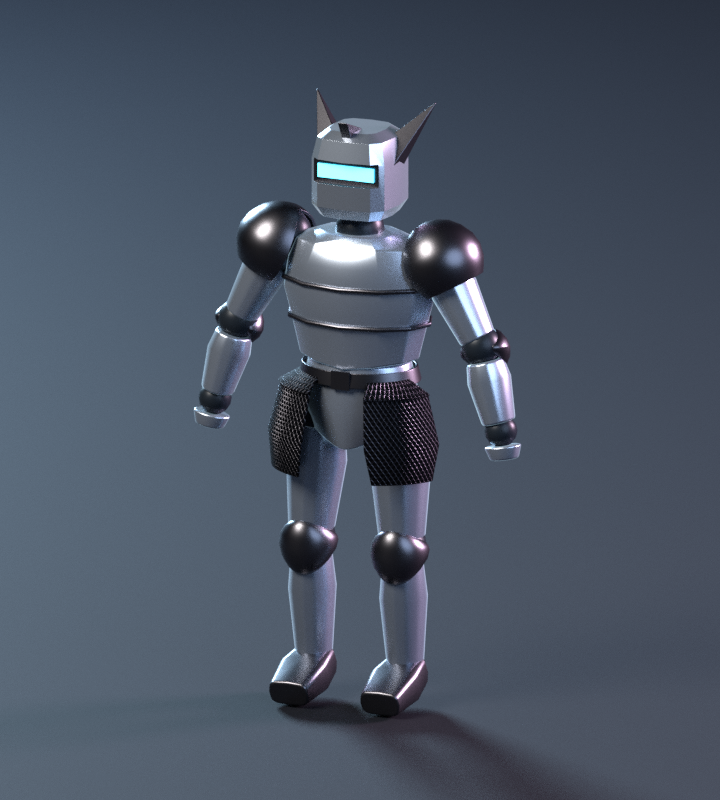
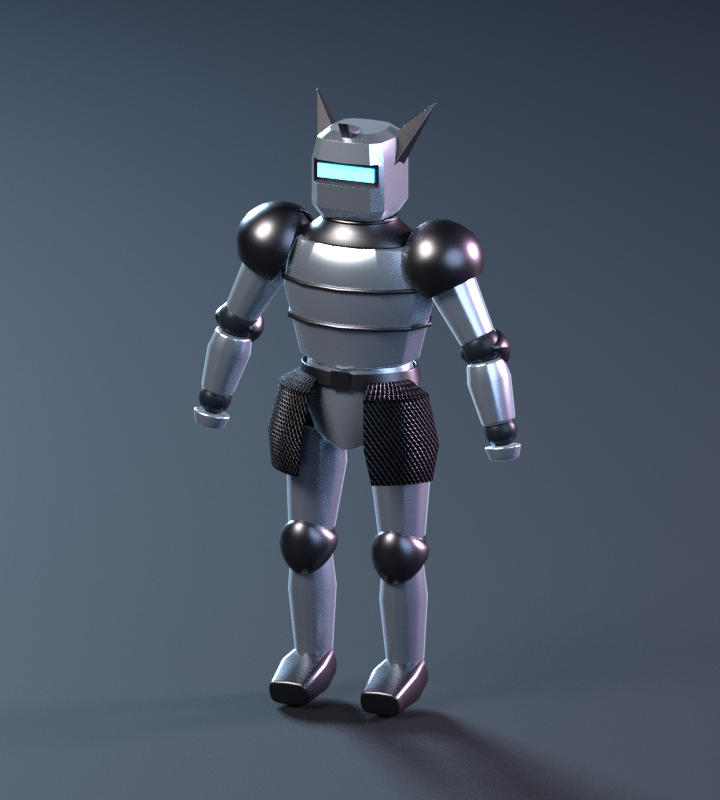
feat: add a dark iron gorget
Add a low dark iron cone on the breastplate's top that narrows to the
neck, with a rolled rim, attached to the chest. Its profile is scaled by
GORGET_SCALE (0.6) about the top ring so the curve keeps its shape. Share
round bars through ring_bar() and open bands through shell_ring().

Changed region(s): [[0.3972, 0.25, 0.5806, 0.3125]]

diff --git a/dev-samples/3d-stage1/rigged-armor/build.py b/dev-samples/3d-stage1/rigged-armor/build.py
@@ -334,6 +334,28 @@ CHEST_RINGS = [(-.085, .175, .13), (.04, .205, .145), (.12, .225, .16),
 CHEST_WIDEN = 1.1
 
 
+def ring_bar(rig, bone_name, name, points, radius, mat):
+    """Closed round bar through the given world points, rigid on a bone."""
+    curve = bpy.data.curves.new(name, 'CURVE')
+    curve.dimensions, curve.bevel_depth, curve.bevel_resolution = '3D', radius, 3
+    spline = curve.splines.new('POLY')
+    spline.points.add(len(points) - 1)
+    for point, co in zip(spline.points, points):
+        point.co = (*co, 1)
+    spline.use_cyclic_u = True
+    obj = bpy.data.objects.new(name, curve)
+    bpy.context.collection.objects.link(obj)
+    bpy.ops.object.select_all(action='DESELECT')
+    obj.select_set(True)
+    bpy.context.view_layer.objects.active = obj
+    bpy.ops.object.convert(target='MESH')
+    obj = bpy.context.object
+    for face in obj.data.polygons:
+        face.use_smooth = True
+    attach(obj, rig, bone_name, mat).modifiers['Forged edge'].width = .002
+    return obj
+
+
 def chest_seams(rig, mat, heights=(1.21, 1.33), radius=.008):
     """Dark iron seams girdling the breastplate like the heroic player's
     plate seams (../build-heroic.py): round bars that follow the plate's
@@ -345,27 +367,64 @@ def chest_seams(rig, mat, heights=(1.21, 1.33), radius=.008):
             if base + a0 <= z <= base + a1:
                 f = (z - base - a0) / (a1 - a0)
                 width, depth = (w0 + (w1 - w0) * f) * CHEST_WIDEN, d0 + (d1 - d0) * f
-        curve = bpy.data.curves.new(f'Chest seam {k + 1}', 'CURVE')
-        curve.dimensions, curve.bevel_depth, curve.bevel_resolution = '3D', radius, 3
-        spline = curve.splines.new('POLY')
-        spline.points.add(11)
-        for i, point in enumerate(spline.points):
+        points = []
+        for i in range(12):
             angle = i * 2 * math.pi / 12
             corner = Vector((width * math.sin(angle), -depth * math.cos(angle), 0))
             # Push the bar's center out a little so half of it shows.
             corner += corner.normalized() * radius * .5
-            point.co = (corner.x, corner.y, z, 1)
-        spline.use_cyclic_u = True
-        obj = bpy.data.objects.new(curve.name, curve)
-        bpy.context.collection.objects.link(obj)
-        bpy.ops.object.select_all(action='DESELECT')
-        obj.select_set(True)
-        bpy.context.view_layer.objects.active = obj
-        bpy.ops.object.convert(target='MESH')
-        obj = bpy.context.object
-        for face in obj.data.polygons:
-            face.use_smooth = True
-        attach(obj, rig, 'chest', mat).modifiers['Forged edge'].width = .002
+            points.append((corner.x, corner.y, z))
+        ring_bar(rig, 'chest', f'Chest seam {k + 1}', points, radius, mat)
+
+
+# Gorget rings (z, half-width, half-depth): a low dark iron cone that sits on
+# the breastplate's top and narrows up to the neck, ending just below the
+# helmet's lower edge. The profile is scaled by GORGET_SCALE about the top
+# ring, in height and in flare alike, so its curve keeps its shape.
+GORGET_SCALE = .6
+GORGET_RINGS = [(1.525 - (1.525 - z) * GORGET_SCALE, .115 + (w - .115) * GORGET_SCALE,
+                 .10 + (d - .10) * GORGET_SCALE)
+                for z, w, d in [(1.415, .235, .148), (1.45, .205, .135), (1.48, .16, .118),
+                                (1.505, .128, .106), (1.525, .115, .10)]]
+
+
+def shell_ring(rig, bone_name, name, rings, mat, thickness=.007, count=32):
+    """Smooth band open at both ends, through (z, half-width, half-depth) rings."""
+    vertices = [(width * math.sin(i * 2 * math.pi / count),
+                 -depth * math.cos(i * 2 * math.pi / count), z)
+                for z, width, depth in rings for i in range(count)]
+    faces = [(r * count + i, r * count + (i + 1) % count,
+              (r + 1) * count + (i + 1) % count, (r + 1) * count + i)
+             for r in range(len(rings) - 1) for i in range(count)]
+    mesh = bpy.data.meshes.new(name)
+    mesh.from_pydata(vertices, [], faces)
+    bm = bmesh.new()
+    bm.from_mesh(mesh)
+    bmesh.ops.recalc_face_normals(bm, faces=bm.faces)
+    bm.to_mesh(mesh)
+    bm.free()
+    for face in mesh.polygons:
+        face.use_smooth = True
+    mesh.update()
+    obj = bpy.data.objects.new(name, mesh)
+    bpy.context.collection.objects.link(obj)
+    attach(obj, rig, bone_name, mat).modifiers['Forged edge'].width = .002
+    shell = obj.modifiers.new('Thickness', 'SOLIDIFY')
+    shell.thickness = thickness
+    bpy.context.view_layer.objects.active = obj
+    bpy.ops.object.modifier_move_up(modifier=shell.name)
+    bpy.ops.object.modifier_move_up(modifier=shell.name)
+    return obj
+
+
+def gorget(rig, mat, count=32):
+    """Dark iron gorget on the chest, a separate part over the breastplate,
+    with a rolled rim at its top edge."""
+    shell_ring(rig, 'chest', 'Gorget', GORGET_RINGS, mat)
+    z, width, depth = GORGET_RINGS[-1]
+    ring_bar(rig, 'chest', 'Gorget rim',
+             [(width * math.sin(i * 2 * math.pi / count), -depth * math.cos(i * 2 * math.pi / count), z)
+              for i in range(count)], .006, mat)
 
 
 def helmet_crest_and_horns(rig, mat):
@@ -532,6 +591,7 @@ def build_armor(rig):
         vertex.co.x *= CHEST_WIDEN
     breastplate.data.update()
     chest_seams(rig, trim)
+    gorget(rig, trim)
     joint(rig, 'neck', .075, dark)
     # A rounded box like the heroic player's helm: flat top, upright sides.
     helmet_rings = [(-.035,.1075,.1075),(.0,.13,.13),

diff --git a/dev-samples/3d-stage1/rigged-armor/README.md b/dev-samples/3d-stage1/rigged-armor/README.md
@@ -44,6 +44,10 @@ Rotation で回転させる。回転はボーンのローカル座標。
 見える部分の形を変えずに付け根を埋めている。
 胸甲は腹部まで伸ばし、正面の下端は中央が少し下がる浅いV字にしている。
 幅と厚みは心臓の高さ（z 1.30）で最大になり、肩に向かってゆるやかに細くなる。
+首には黒い鉄の首当て（`Gorget`）を付けている（`chest` に固定）。胸甲の上端に乗った低い円錐で、
+首に向かって細くなり、上端を同じ黒い鉄の丸棒で縁取っている。寸法は `GORGET_SCALE` で縮尺できる。
+首当ては胸に固定なので、`neck`・`head` で20度ほどうなずく・かしげると兜の下端が上端に当たる
+（ひねりは45度まで当たらない）。
 胸甲には heroic の主人公と同じく、黒い鉄の細い丸棒の輪を2本巻いている（`chest` に固定）。
 輪は胸甲の12角の断面に沿い、半分ほど埋まる。高さはベルトから肩までの比率を heroic に合わせた。
 腰甲の上部、胸甲の裾の下に黒い鉄の平たいベルト（幅約4.5cm）を巻いている。
